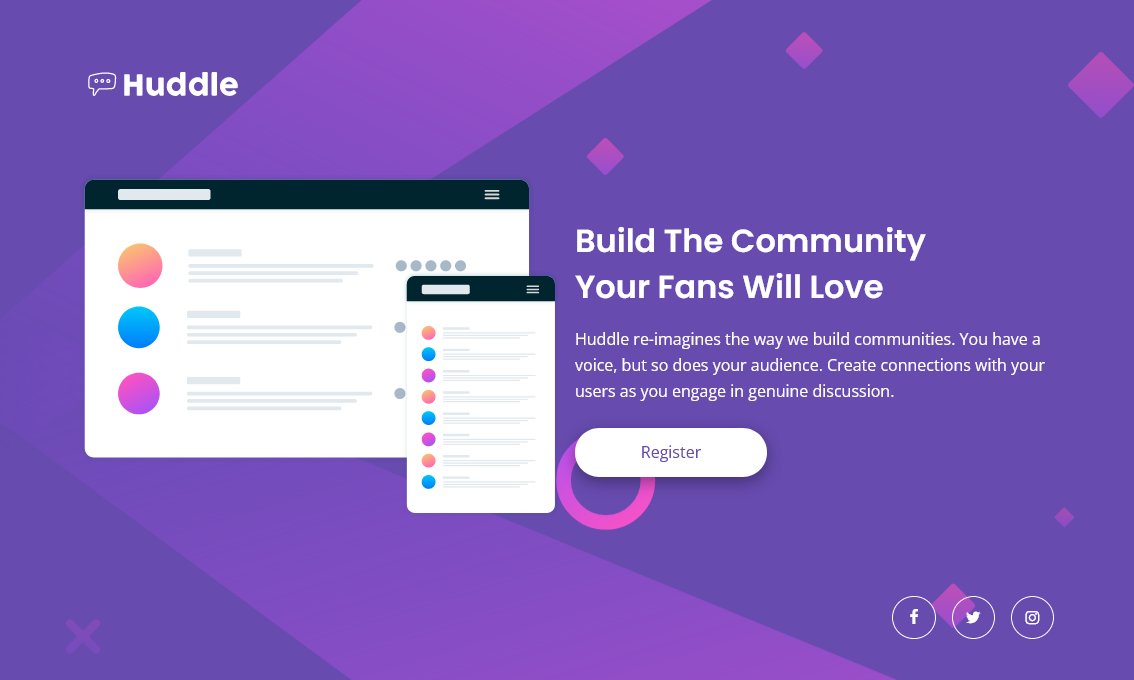
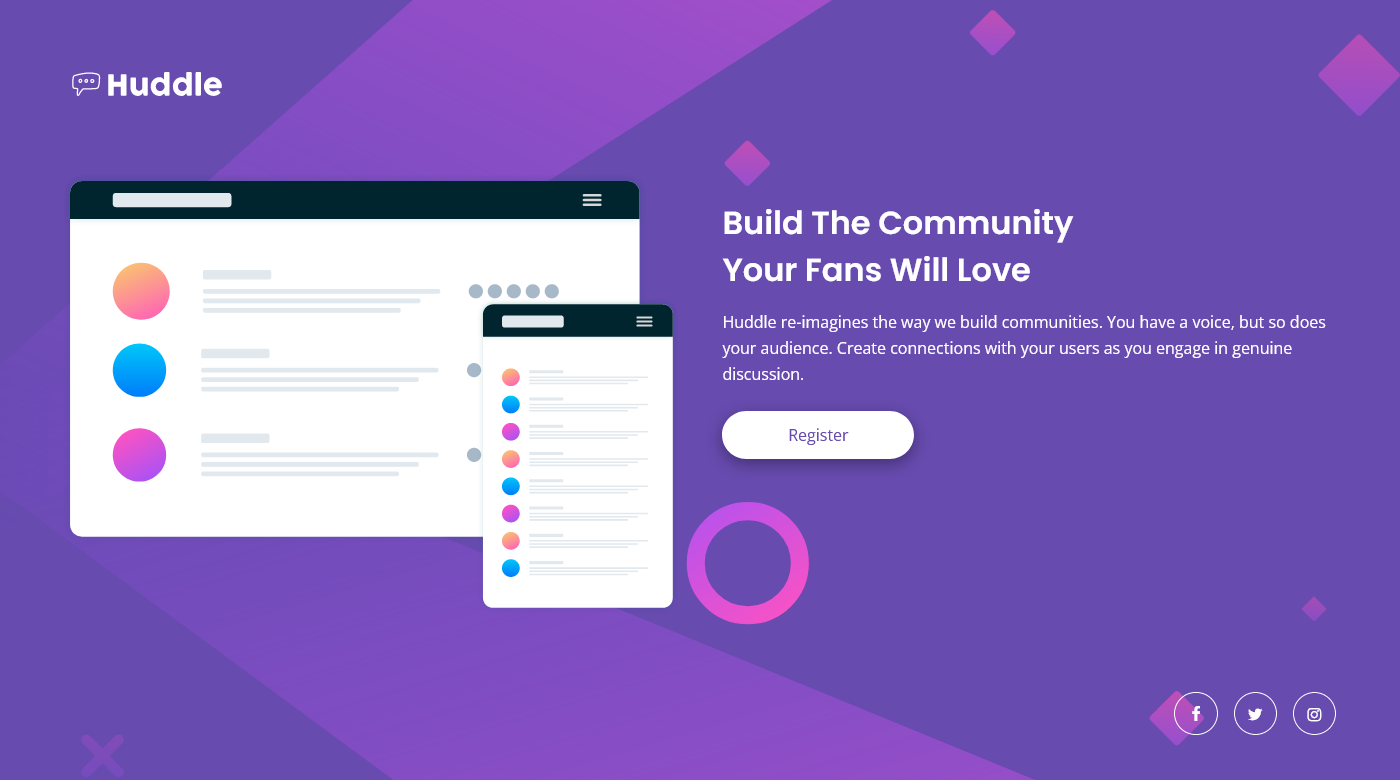
+ Actualización de screenshot.

diff --git a/css/style.css b/css/style.css
@@ -255,26 +255,31 @@ button{
   }
 
   .main-container{
-    padding-left: calc(var(--padding) * 1.5);
-    padding-right: calc(var(--padding) * 1.5);
+    padding-left: var(--padding);
+    padding-right: var(--padding);
   }
 
     .main-content{
-      gap: 1rem;
+      gap: 2.8rem;
       -ms-grid-columns: 1fr 1rem 1fr;
       grid-template-columns: 1fr 1fr;
     }
 
-      .main-footer{
-        -webkit-box-pack: end;
-            -ms-flex-pack: end;
-                justify-content: end;
-        padding: 0 0 1rem;
+      .image-hero > img{
+        width: 100%;
+        height: 100%;
       }
 
-      .text-container{
-        padding-top: calc(var(--padding) * 1.3);
-      }
+    .main-footer{
+      -webkit-box-pack: end;
+          -ms-flex-pack: end;
+              justify-content: end;
+      padding: 0 0 1rem;
+    }
+
+    .text-container{
+      padding-top: 1.5rem;
+    }
 
   .cta{
     width: auto;
